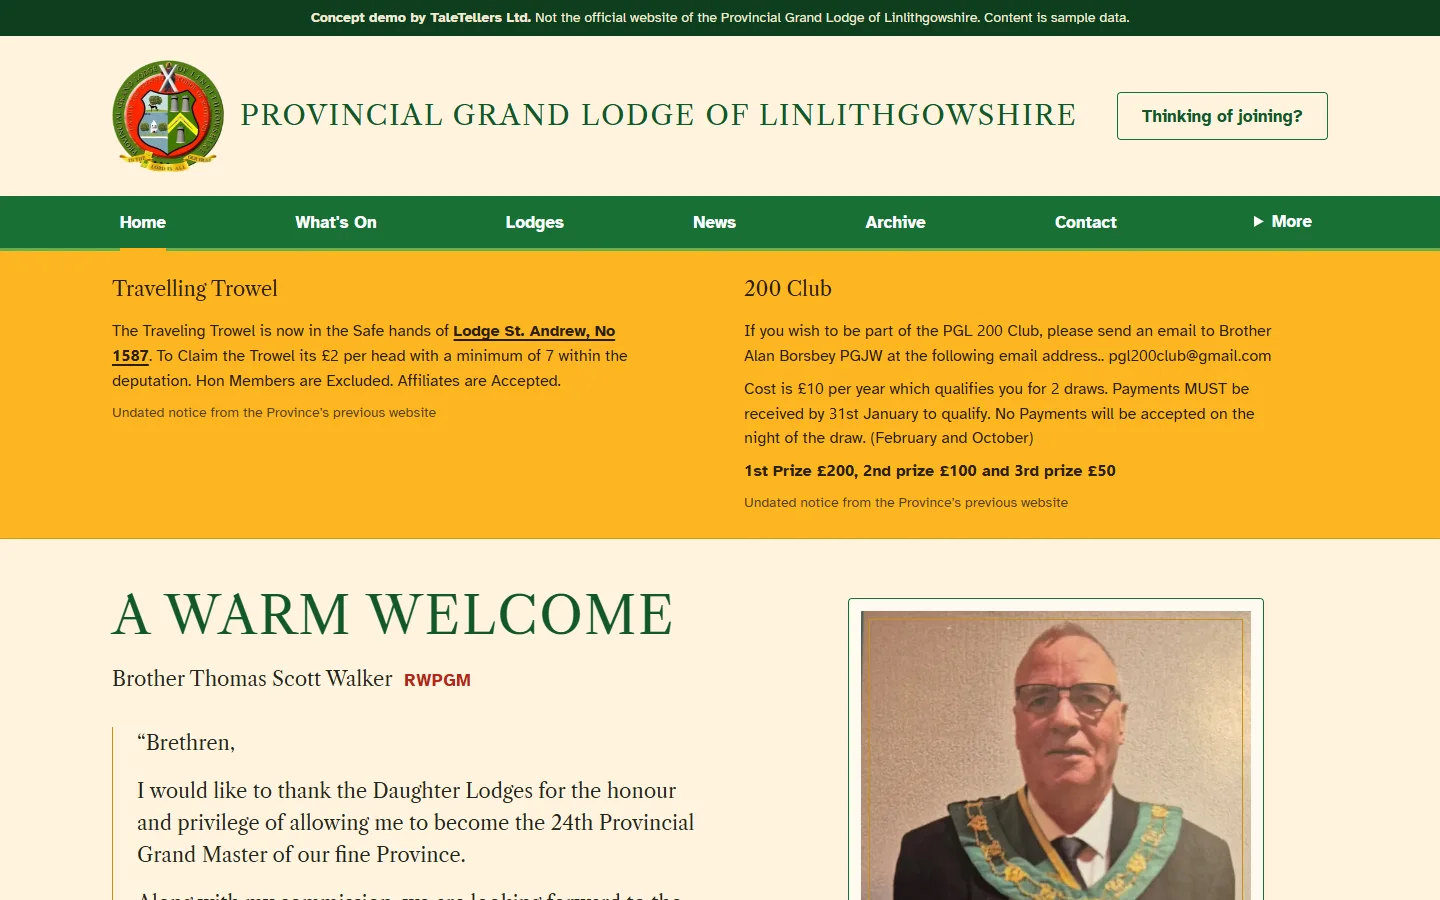
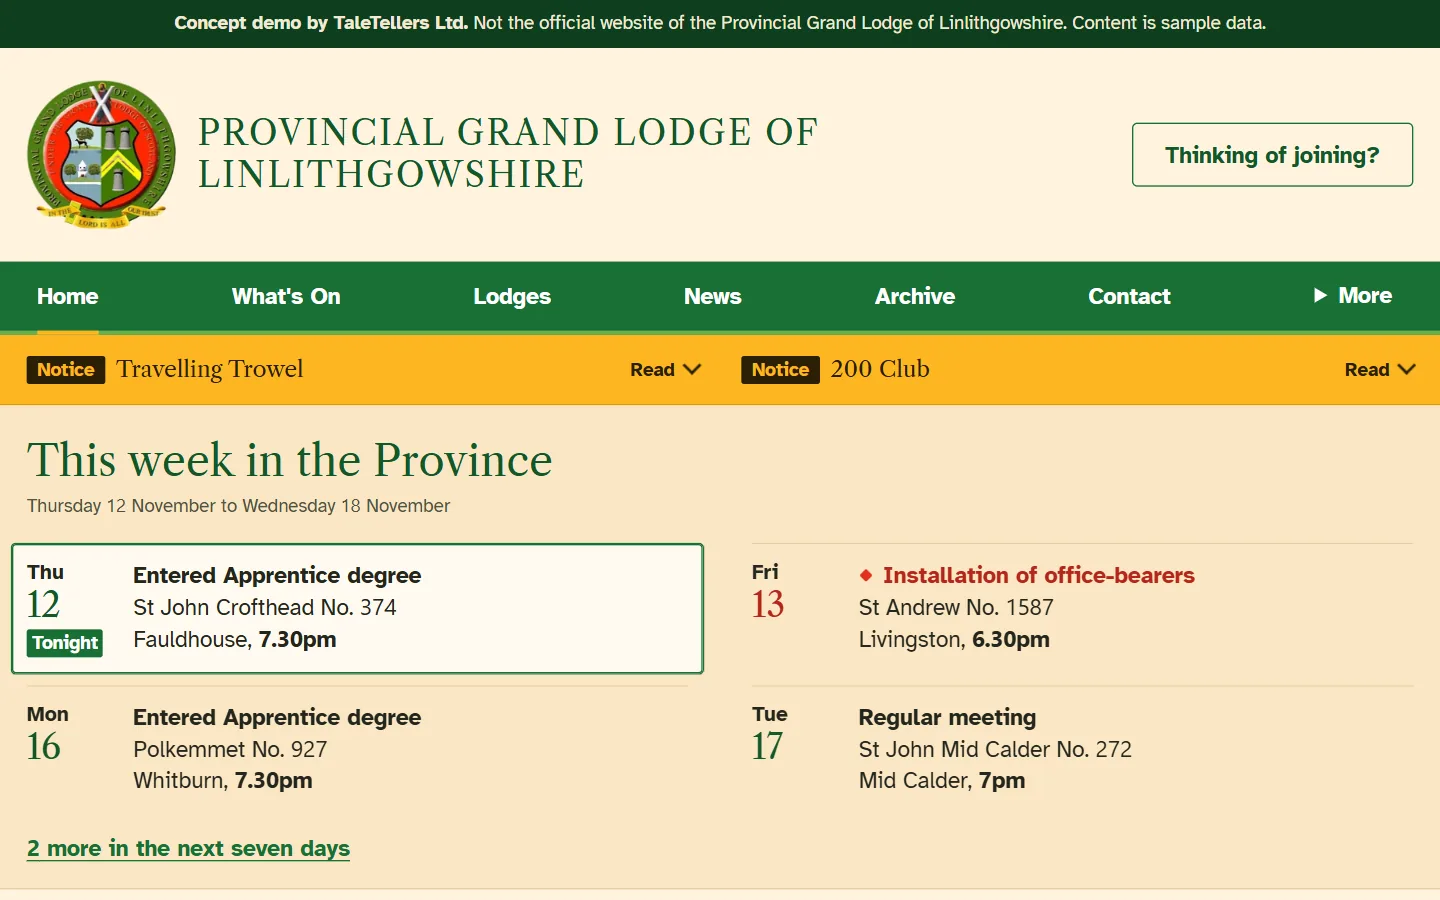
PGL showcase: new shot with This week in the Province first and no portrait
John, 12 Nov 2026: the old PGL shots showed the Provincial Grand Master's face. The new
1440x900 card (from the live demo, What's On at the top) replaces the tall shot in the hero,
the website tile and the work page; pgl-desktop-tall.webp is removed. On phones the hero's
website shot is no longer side-cropped.

diff --git a/index.html b/index.html
@@ -12,7 +12,7 @@
   <link rel="icon" href="favicon.svg?v=4" type="image/svg+xml">
   <link rel="preload" href="fonts/alegreya-latin-wght-normal.woff2" as="font" type="font/woff2" crossorigin>
   <link rel="preload" href="fonts/alegreya-sans-latin-400-normal.woff2" as="font" type="font/woff2" crossorigin>
-  <link rel="stylesheet" href="styles.css?v=6">
+  <link rel="stylesheet" href="styles.css?v=7">
   <script src="site.js?v=5"></script>
 
   <meta property="og:type" content="website">
@@ -99,7 +99,7 @@
             <figcaption>The website</figcaption>
             <div class="frame">
               <div class="frame-bar">Provincial Grand Lodge of Linlithgowshire, concept demo</div>
-              <img src="images/pgl-desktop-tall.webp" width="1200" height="1650" fetchpriority="high" alt="A Province's website: a green header, a yellow notices band and a welcome from the Provincial Grand Master.">
+              <img src="images/pgl-desktop.webp?v=2" width="1440" height="900" fetchpriority="high" alt="A Province's website: a green header, a yellow notices bar and this week's lodge meetings in the Province.">
             </div>
           </figure>
           <figure class="screen screen-phone">
@@ -132,7 +132,7 @@
         <ol class="cases">
           <li class="case">
             <figure class="case-media" data-reveal>
-              <img class="shot-desktop" src="images/pgl-desktop.webp" width="1440" height="900" loading="lazy" alt="Desktop view of the Provincial Grand Lodge of Linlithgowshire concept demo: green header, a yellow notices band and a welcome from the Provincial Grand Master.">
+              <img class="shot-desktop" src="images/pgl-desktop.webp?v=2" width="1440" height="900" loading="lazy" alt="Desktop view of the Provincial Grand Lodge of Linlithgowshire concept demo: green header, a yellow notices bar and This week in the Province, the lodge meetings for the next seven days.">
               <img class="shot-phone" src="images/pgl-phone.webp" width="520" height="1125" loading="lazy" alt="The same demo on a phone, listing this week's lodge meetings across the Province.">
             </figure>
             <div class="case-body" data-reveal="1">
@@ -194,7 +194,7 @@
             <figure class="plate-figure">
               <div class="frame">
                 <div class="frame-bar">Provincial Grand Lodge of Linlithgowshire, concept demo</div>
-                <img src="images/pgl-desktop-tall.webp" width="1200" height="1650" loading="lazy" alt="A Province website: notices, a welcome from the Provincial Grand Master and a calendar of the week's lodge meetings.">
+                <img src="images/pgl-desktop.webp?v=2" width="1440" height="900" loading="lazy" alt="A Province website: notices and a calendar of the week's lodge meetings.">
               </div>
             </figure>
             <h3>The website</h3>

diff --git a/work.html b/work.html
@@ -12,7 +12,7 @@
   <link rel="icon" href="favicon.svg?v=4" type="image/svg+xml">
   <link rel="preload" href="fonts/alegreya-latin-wght-normal.woff2" as="font" type="font/woff2" crossorigin>
   <link rel="preload" href="fonts/alegreya-sans-latin-400-normal.woff2" as="font" type="font/woff2" crossorigin>
-  <link rel="stylesheet" href="styles.css?v=6">
+  <link rel="stylesheet" href="styles.css?v=7">
   <script src="site.js?v=5"></script>
 </head>
 <body>
@@ -68,7 +68,7 @@
           <p><a class="demo-link" href="https://thescar4295.github.io/pgl-linlithgowshire-demo/">View the concept demo<span class="visually-hidden">: Provincial Grand Lodge of Linlithgowshire</span></a></p>
         </div>
         <figure class="study-media" data-reveal="1">
-          <img class="shot-desktop" src="images/pgl-desktop-tall.webp" width="1200" height="1650" alt="Full-length desktop view of the Provincial Grand Lodge of Linlithgowshire concept demo: notices, a welcome, a joining panel and the What's On calendar.">
+          <img class="shot-desktop" src="images/pgl-desktop.webp?v=2" width="1440" height="900" alt="Desktop view of the Provincial Grand Lodge of Linlithgowshire concept demo: notices and This week in the Province, the lodge meetings for the next seven days.">
           <img class="shot-phone" src="images/pgl-phone.webp" width="520" height="1125" loading="lazy" alt="The same demo on a phone, showing this week in the Province.">
           <figcaption>Desktop and phone, from the demo as it runs today.</figcaption>
         </figure>

diff --git a/styles.css b/styles.css
@@ -842,7 +842,6 @@ a:hover { text-decoration-thickness: 2px; }
   /* Phone stage: the website across the top, the app and the admin panel side by side beneath it */
   .stage { grid-template-columns: 1fr 1fr; height: auto; max-height: 32rem; }
   .screen-desk { grid-column: 1 / -1; }
-  .screen-desk .frame img { aspect-ratio: 16 / 11; object-fit: cover; object-position: top; }
   .screen-phone,
   .screen-admin { padding-top: 0.5rem; }
   .screen figcaption { font-size: 1.0625rem; padding-bottom: 0.4rem; }

diff --git a/privacy.html b/privacy.html
@@ -12,7 +12,7 @@
   <link rel="icon" href="favicon.svg?v=4" type="image/svg+xml">
   <link rel="preload" href="fonts/alegreya-latin-wght-normal.woff2" as="font" type="font/woff2" crossorigin>
   <link rel="preload" href="fonts/alegreya-sans-latin-400-normal.woff2" as="font" type="font/woff2" crossorigin>
-  <link rel="stylesheet" href="styles.css?v=6">
+  <link rel="stylesheet" href="styles.css?v=7">
   <script src="site.js?v=5"></script>
 </head>
 <body>
